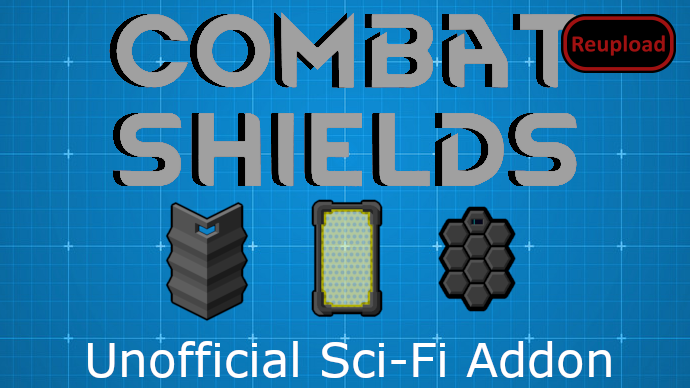
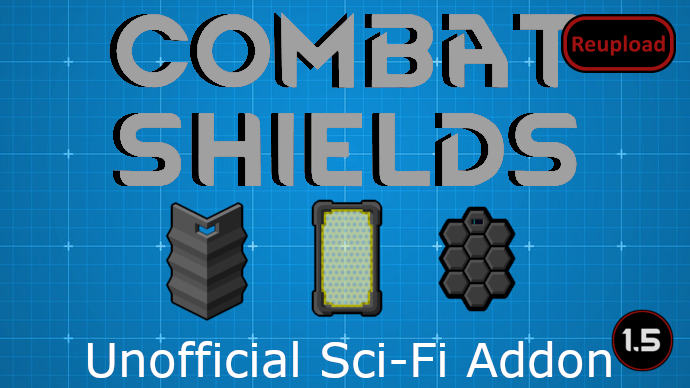
Updated for 1.5

Changed region(s): [[0.8826, 0.7732, 0.9739, 0.9588]]

diff --git a/README.md b/README.md
@@ -26,13 +26,13 @@ The energy shield - 'An advanced shield made with Spacer shield emitters and des
 
 -  See if the the error persists if you just have this mod and its requirements active.
 -  If not, try adding your other mods until it happens again.
--  Post your error-log using https://steamcommunity.com/workshop/filedetails/?id=818773962]HugsLib and command Ctrl+F12
+-  Post your error-log using https://steamcommunity.com/workshop/filedetails/?id=818773962]HugsLib or the standalone https://steamcommunity.com/sharedfiles/filedetails/?id=2873415404]Uploader and command Ctrl+F12
 -  For best support, please use the Discord-channel for error-reporting.
 -  Do not report errors by making a discussion-thread, I get no notification of that.
 -  If you have the solution for a problem, please post it to the GitHub repository.
+-  Use https://github.com/RimSort/RimSort/releases/latest]RimSort to sort your mods
 
 
 
+https://steamcommunity.com/sharedfiles/filedetails/changelog/2033036393]![Image](https://img.shields.io/github/v/release/emipa606/CombatShieldsSciFiAddon?label=latest%20version&style=plastic&color=9f1111&labelColor=black)
 
-
-https://steamcommunity.com/sharedfiles/filedetails/changelog/2033036393]Last updated 2023-06-09
